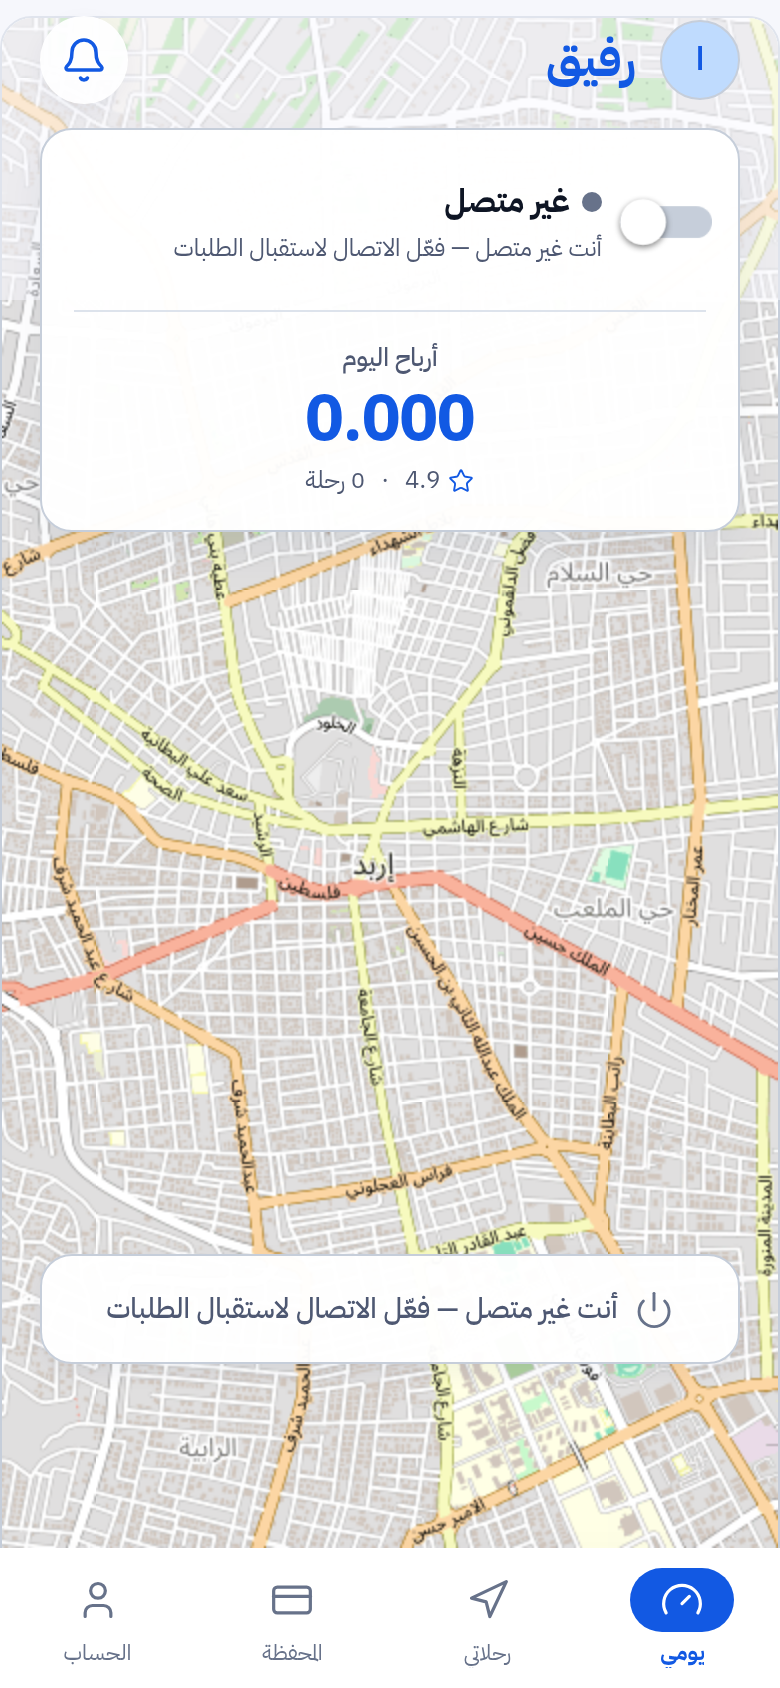
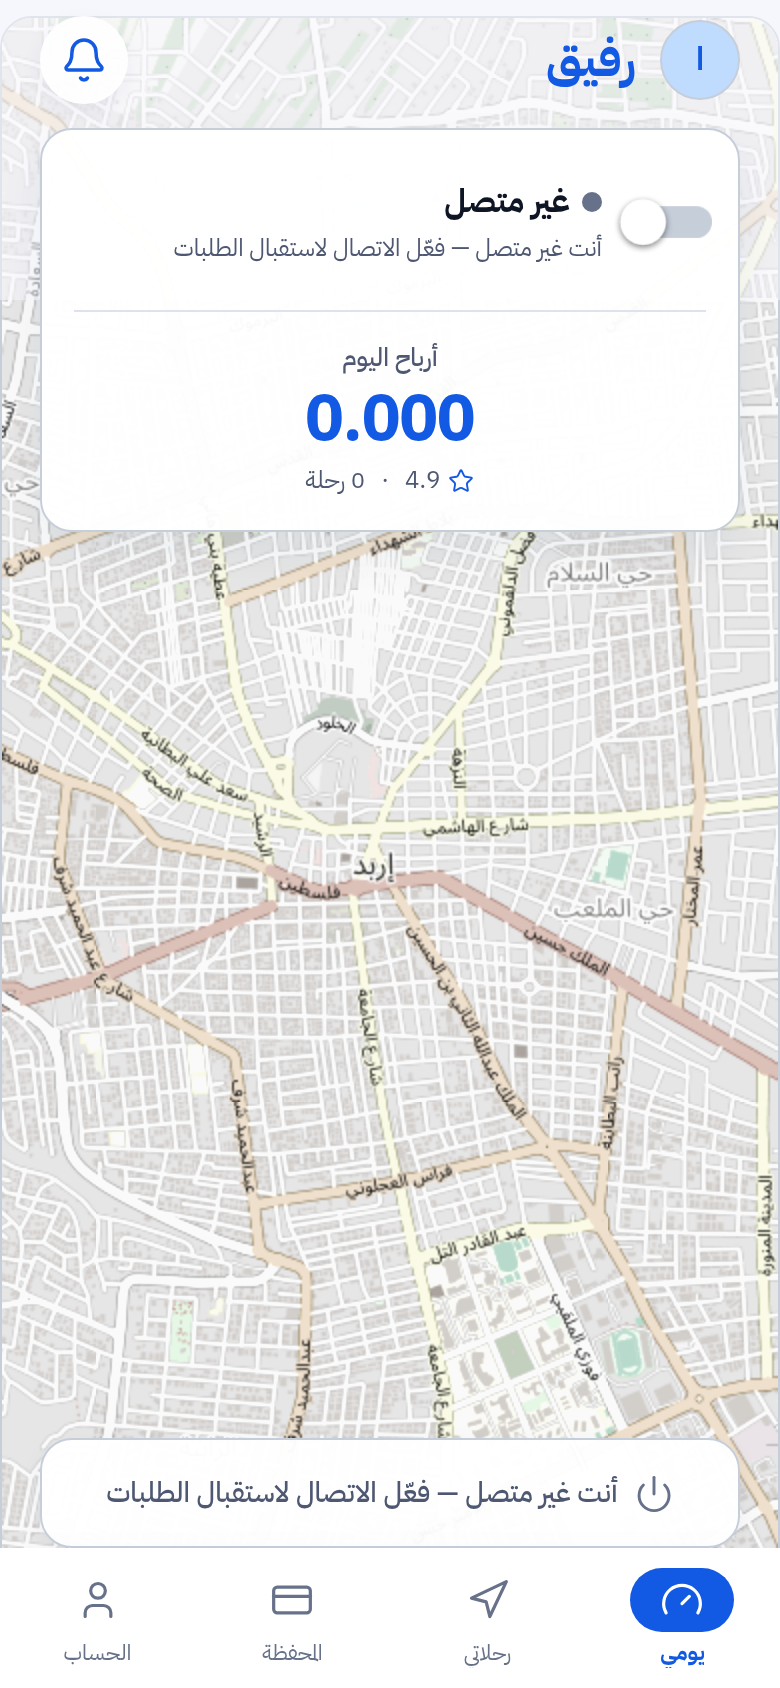
الواجهات: الشريط الوهمي، والخريطة الصارخة، وإسناد ناقص كان مخالفة ترخيص (#98)
Comparing `docs/design/v2/03-student-ride` (شاشة 10) against what actually renders, one
element at a time, rather than assuming.

── What already matched, and is worth saying ───────────────────────────────

The greeting pill, the collapsed «إلى أين؟» sheet, the «اسأل رفيق» chip, the request
stepper (تم الطلب → قُبلت → الكابتن قادم → في الطريق → وصلت), the captain card and the
four-tab bar are all present and correct. The V2 sheets' «اليوم …» notes describe the
code as it stood when the sheets were drawn — BEFORE phases 8 and 9 — and most of what
they list was closed by those phases.

── A 92px band of map under the sheet, on both apps ───────────────────────

`sheet` was `position: 'absolute', bottom: 92`, a hand-measured guess at the tab bar's
height. But `TabBar` is NOT absolutely positioned — it takes its own space, so a tab
screen's viewport already stops above it. Offsetting by 92 on top of that left a 92px
strip of the full-screen map visible between the sheet and the bar, which reads as a
rendering fault. `driver-app/dashboard.tsx` had the identical `bottom: 92`.

Not a web artefact: the geometry is the same on a phone.

── The map out-shouted the only thing on it that matters ──────────────────

The approved screen puts a PALE map under the sheet so the blue route and the amber
captain badge are the only saturated things on it. Default OSM raster paints motorways
orange and trunk roads red, so the one element the rider is looking for was the hardest
to see.
[…]

diff --git a/frontend/packages/ui/src/components/LiveMap.tsx b/frontend/packages/ui/src/components/LiveMap.tsx
@@ -1,6 +1,6 @@
 import { createElement, useEffect, useMemo, useRef, useState } from 'react';
 import { ActivityIndicator, Platform, StyleSheet, View } from 'react-native';
-import { brand } from '@rafeeq/tokens';
+import { brand, neutral } from '@rafeeq/tokens';
 import { useTheme, type AppTheme } from '../theme';
 import { useI18n } from '../runtime/i18n';
 import { getMapsKey } from '../runtime/appConfig';
@@ -292,6 +292,7 @@ function buildGoogleHtml(
 <meta name="viewport" content="width=device-width, initial-scale=1, maximum-scale=1">
 <style>
   html,body,#map{height:100%;margin:0;background:#eef3f0}
+  /* The pale basemap of the approved screens. Only the TILES are filtered — the pane
 </style></head><body><div id="map"></div>
 <script>
   var COL = ${col};
@@ -407,14 +408,43 @@ function buildLeafletHtml(
   const c = JSON.stringify(center);
   const col = JSON.stringify(colors);
 
-  // Free OpenStreetMap tiles (no key required, ToS-compliant).
+  /*
+   * The approved screens (docs/design/v2/03-student-ride) put a PALE map under the
+   * sheet — near-white blocks, light roads — so the blue route and the amber captain
+   * badge are the only saturated things on it. Default OSM raster paints motorways
+   * orange and trunk roads red, which out-shouts both and makes the one thing the rider
+   * is looking for the hardest thing to see.
+   *
+   * The pale look is applied HERE with a filter rather than by switching provider.
+   * CARTO Positron is the obvious candidate and it now refuses keyless traffic — it
+   * serves tiles stamped "API KEY REQUIRED", which is worse than saturated. Every other
+   * light basemap (Stadia, Mapbox, Thunderforest) wants a key too. Desaturating OSM
+   * needs no account, no key, and no third party that can change its terms under us.
+   */
   const tileUrl = 'https://{s}.tile.openstreetmap.org/{z}/{x}/{y}.png';
+
+  /*
+   * Attribution is not optional.
+   *
+   * `attributionControl` was false while the comment above claimed "ToS-compliant". The
+   * OSM licence REQUIRES visible credit, so the map was shipping in breach of the
+   * licence of the data it drew. Rendered small and low-contrast: it satisfies the
+   * licence without competing with the route.
+   */
+  const attribution = '© OpenStreetMap';
 
   return `<!DOCTYPE html><html><head>
 <meta name="viewport" content="width=device-width, initial-scale=1, maximum-scale=1">
 <link rel="stylesheet" href="https://unpkg.com/leaflet@1.9.4/dist/leaflet.css"/>
 <style>
   html,body,#map{height:100%;margin:0;background:#eef3f0}
+  /* Attribution is a licence requirement, so it renders — small and low-contrast, so it
+     does not compete with the route. */
+  .leaflet-control-attribution{font:400 9px sans-serif;background:rgba(255,255,255,.72);color:${neutral[500]};padding:1px 4px}
+  /* The pale basemap of the approved screens. Only the TILE pane is filtered — the panes
+     holding the route, the pins and the captain badge are siblings, so they keep full
+     saturation and stay the loudest thing on the map. */
+  .leaflet-tile-pane{filter:saturate(.38) brightness(1.05) contrast(.96)}
   .rfq-pin-wrap{position:relative;display:flex;align-items:center;justify-content:center}
   .rfq-tear{position:relative;width:30px;height:40px;filter:drop-shadow(0 2px 3px rgba(0,0,0,.35))}
   .rfq-tear svg{display:block}
@@ -429,8 +459,8 @@ function buildLeafletHtml(
 <script>
   var COL = ${col};
   var c = ${c};
-  var map = L.map('map',{zoomControl:false,attributionControl:false}).setView([c.lat,c.lng],14);
-  L.tileLayer('${tileUrl}',{maxZoom:19,subdomains:['a','b','c']}).addTo(map);
+  var map = L.map('map',{zoomControl:false,attributionControl:true}).setView([c.lat,c.lng],14);
+  L.tileLayer('${tileUrl}',{maxZoom:19,subdomains:['a','b','c'],attribution:'${attribution}'}).addTo(map);
 
   var markers=[], routeLine=null, routeCasing=null, captainMarker=null;
 

diff --git a/frontend/student-app/app/(app)/home.tsx b/frontend/student-app/app/(app)/home.tsx
@@ -746,7 +746,17 @@ const makeStyles = (t: AppTheme) =>
     bellDot: { position: 'absolute', top: 11, end: 11, width: 8, height: 8, borderRadius: 4, backgroundColor: t.colors.danger },
 
     sheet: {
-      position: 'absolute', start: 0, end: 0, bottom: 92, maxHeight: '62%',
+      /*
+       * `bottom: 0`, not 92.
+       *
+       * The 92 was a hand-measured guess at the tab bar's height, but `TabBar` is not
+       * absolutely positioned — it takes its own space in the layout, so a tab screen's
+       * viewport ALREADY excludes it. Offsetting by 92 on top of that left a 92px strip
+       * of the full-screen map visible between the sheet and the bar: a second band of
+       * map under the sheet, which reads as a rendering fault. The approved screen
+       * (docs/design/v2/03-student-ride, شاشة 10) has the sheet meeting the bar.
+       */
+      position: 'absolute', start: 0, end: 0, bottom: 0, maxHeight: '62%',
       backgroundColor: t.colors.surface, borderTopStartRadius: t.radius.sheet, borderTopEndRadius: t.radius.sheet,
       paddingHorizontal: t.spacing.lg, paddingBottom: t.spacing.lg,
       shadowColor: brand[900], shadowOpacity: 0.12, shadowRadius: 24, shadowOffset: { width: 0, height: -8 }, elevation: 16,

diff --git a/frontend/driver-app/app/(app)/dashboard.tsx b/frontend/driver-app/app/(app)/dashboard.tsx
@@ -266,7 +266,9 @@ const makeStyles = (t: AppTheme) =>
     statLbl: { fontFamily: t.fontFamily.regular, fontSize: 12, color: t.colors.textSecondary },
     statDivider: { width: StyleSheet.hairlineWidth, height: 34, backgroundColor: t.colors.border },
 
-    bottomWrap: { position: 'absolute', left: 0, right: 0, bottom: 92, paddingHorizontal: 20 },
+    // `bottom: 0` — the same 92px phantom gap the student sheet had. `TabBar` occupies
+    // layout space, so a tab screen's viewport already stops above it.
+    bottomWrap: { position: 'absolute', left: 0, right: 0, bottom: 0, paddingHorizontal: 20 },
     offersCard: { flexDirection: 'row-reverse', alignItems: 'center', gap: t.spacing.md, backgroundColor: t.colors.primary, borderRadius: 16, padding: 16, ...t.shadow.lg },
     offersIcon: { width: 44, height: 44, borderRadius: 22, backgroundColor: 'rgba(255,255,255,0.15)', alignItems: 'center', justifyContent: 'center' },
     offersTitle: { fontFamily: t.fontFamily.bold, fontSize: 16, color: t.colors.onPrimary, textAlign: 'right' },
